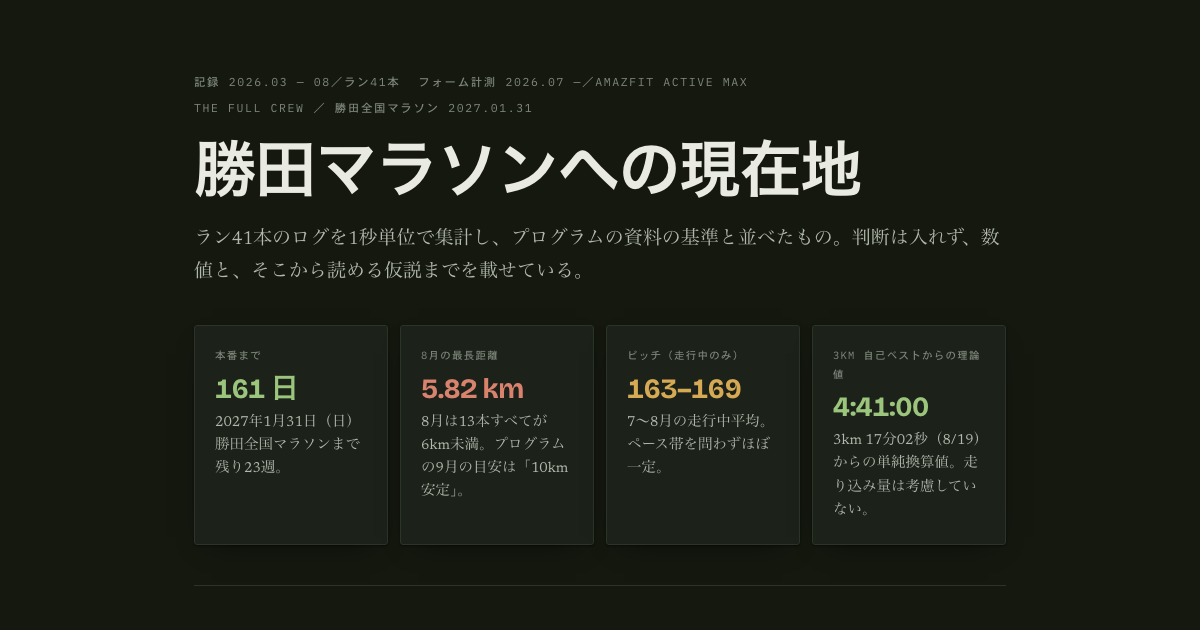
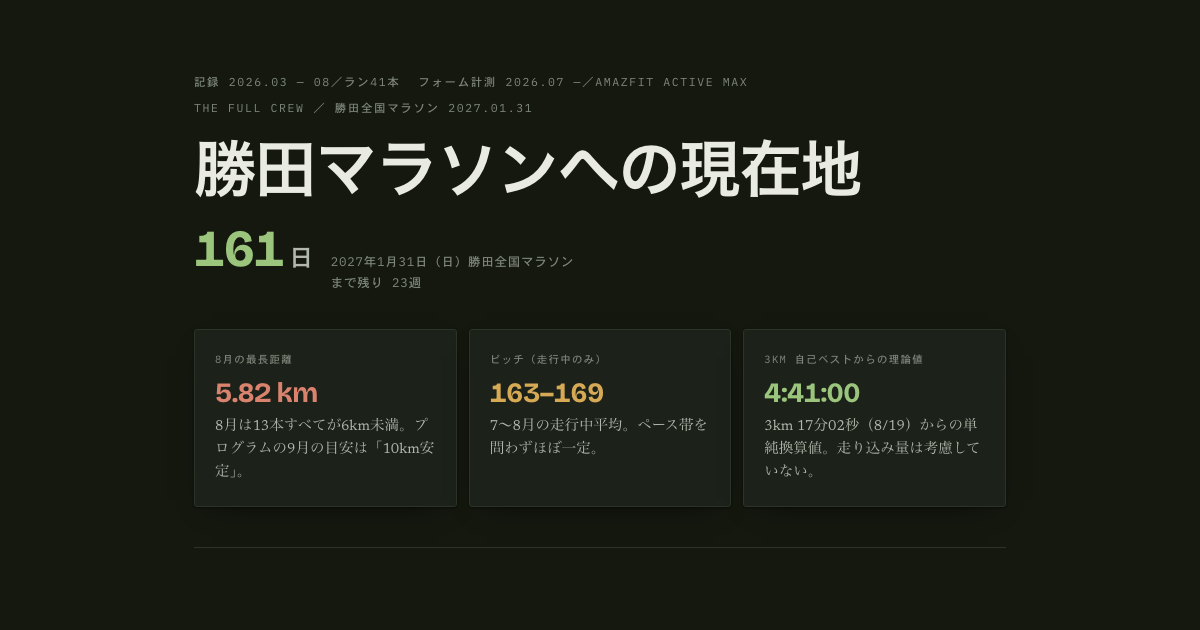
導入文をカウントダウンに差し替え

diff --git a/index.html b/index.html
@@ -144,6 +144,12 @@ footer p{margin:0 0 8px}
 .legend{display:flex; flex-wrap:wrap; gap:8px 20px; font-family:"IBM Plex Mono",monospace; font-size:11px; color:var(--ink-3); margin-top:14px; letter-spacing:.04em}
 .legend span{display:flex; align-items:center; gap:7px}
 .dot{width:9px; height:9px; border-radius:50%; display:inline-block}
+/* カウントダウン */
+.countdown{display:flex; align-items:baseline; gap:18px; flex-wrap:wrap; margin:0}
+.cd-main{font-family:"Bricolage Grotesque",sans-serif; font-weight:700; font-size:clamp(36px,5.4vw,52px); line-height:1; letter-spacing:-.025em; color:var(--accent); font-variant-numeric:tabular-nums; white-space:nowrap}
+.cd-main .u{font-size:.44em; margin-left:6px; color:var(--ink-2); letter-spacing:0}
+.cd-sub{font-family:"IBM Plex Mono",monospace; font-size:12.5px; letter-spacing:.06em; color:var(--ink-3); line-height:1.7}
+
 /* 本文の箇条書き */
 .pts{margin:0 0 18px; padding:0; list-style:none}
 .pts li{position:relative; padding-left:18px; margin-bottom:8px; font-size:16.5px}
@@ -220,14 +226,12 @@ footer p{margin:0 0 8px}
     <span>記録 2026.03 — 08／ラン41本</span><span>フォーム計測 2026.07 —／Amazfit Active Max</span><span>THE FULL CREW ／ 勝田全国マラソン 2027.01.31</span>
   </div>
   <h1>勝田マラソンへの現在地</h1>
-  <p class="standfirst">ラン41本のログを1秒単位で集計し、プログラムの資料の基準と並べたもの。判断は入れず、数値と、そこから読める仮説までを載せている。</p>
+  <div class="countdown">
+    <div class="cd-main"><span id="cd-days">—</span><span class="u">日</span></div>
+    <div class="cd-sub">2027年1月31日（日）勝田全国マラソン<br><span id="cd-weeks"></span></div>
+  </div>
 
   <div class="verdict">
-    <div class="vcard good">
-      <div class="k">本番まで</div>
-      <div class="v"><span id="cd-days">—</span> 日</div>
-      <div class="n">2027年1月31日（日）勝田全国マラソン<span id="cd-weeks"></span>。</div>
-    </div>
     <div class="vcard crit">
       <div class="k">8月の最長距離</div>
       <div class="v">5.82 km</div>
@@ -594,7 +598,7 @@ footer p{margin:0 0 8px}
     var el=document.getElementById("cd-days");
     if(el) el.textContent=days;
     var w=document.getElementById("cd-weeks");
-    if(w) w.textContent="まで残り"+Math.floor(days/7)+"週"+(days%7?(days%7)+"日":"");
+    if(w) w.textContent="まで残り "+Math.floor(days/7)+"週"+(days%7?(days%7)+"日":"");
   })();
 
   // 色はハードコードせずCSS変数のまま埋め込む。
